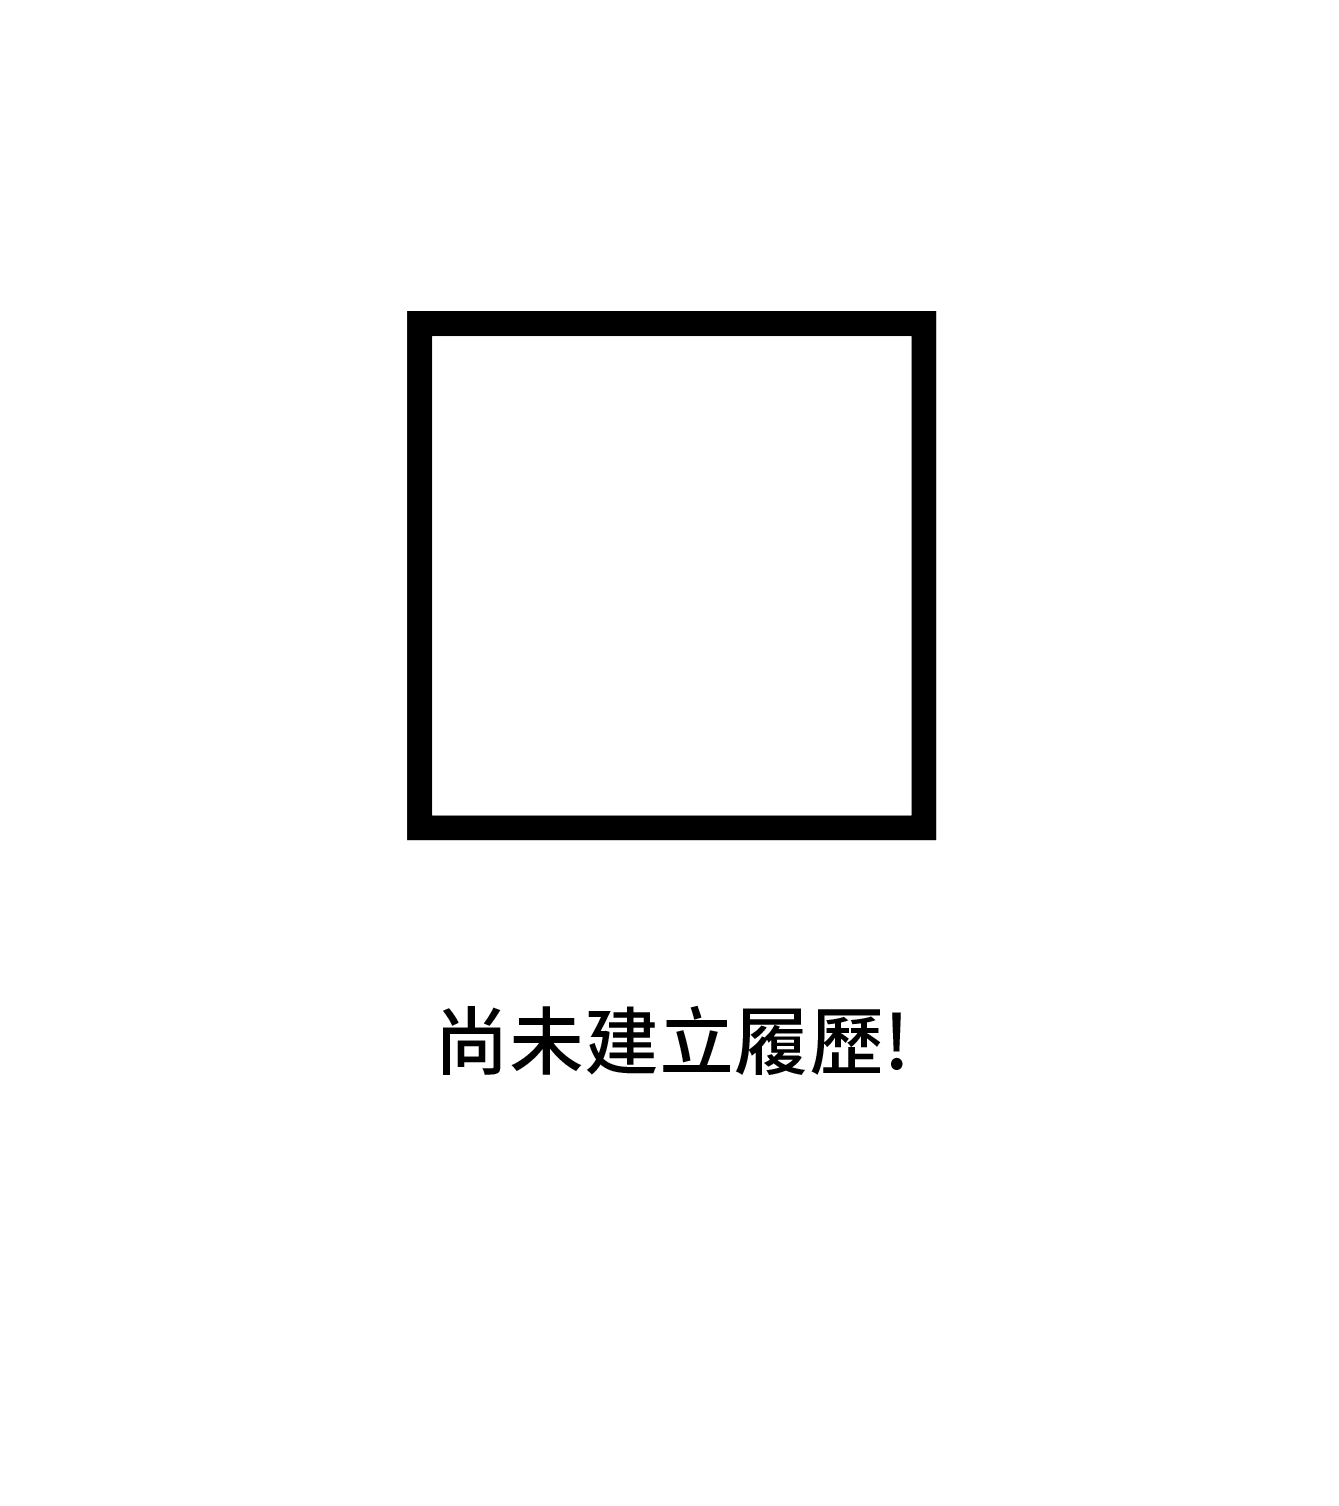
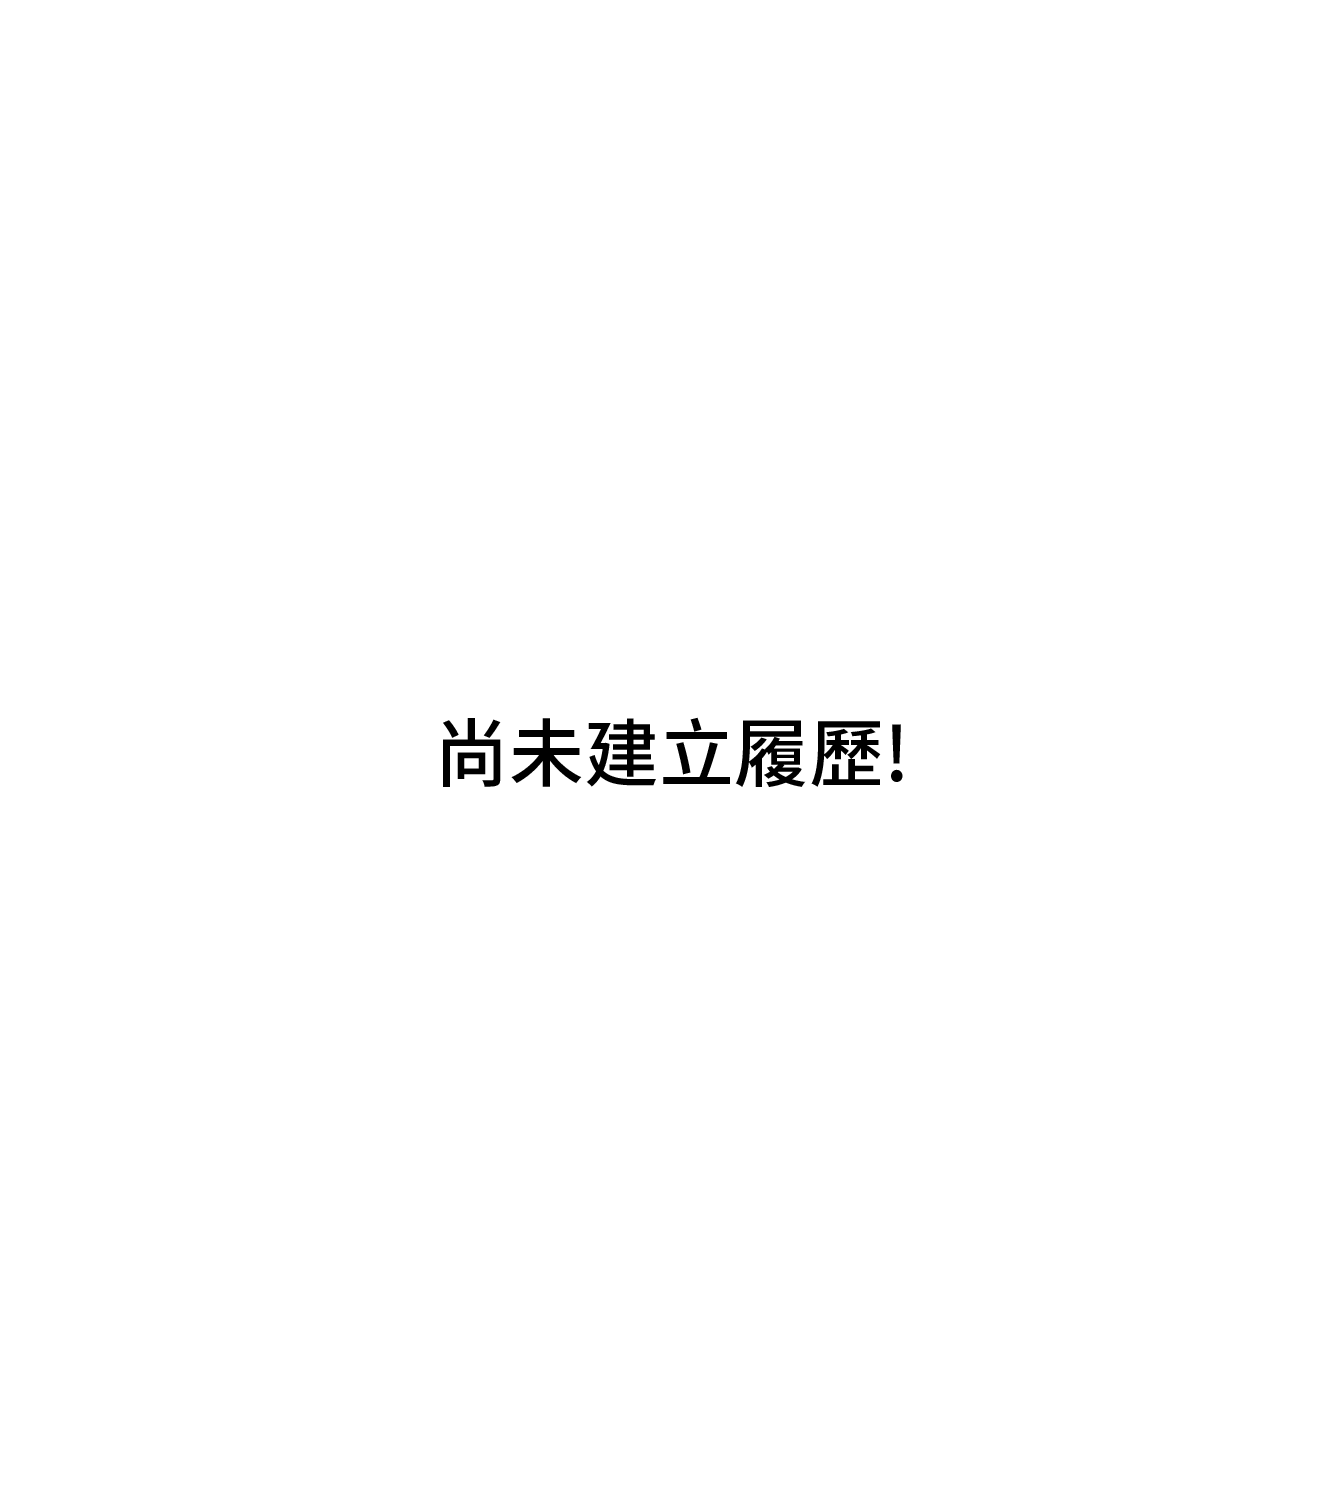
add loading animation in resume page

Changed region(s): [[0.3062, 0.1873, 0.7043, 0.5618], [0.3062, 0.6554, 0.6736, 0.7178]]

diff --git a/src/utilis/Loading.tsx b/src/utilis/Loading.tsx
@@ -1,65 +1,37 @@
 import React from "react";
 import styled, { keyframes } from "styled-components";
+import LogoImg from "../images/caterportfolio_logo.png";
 
-import Fish from "../images/fish.png";
-
-const float = keyframes`{
-	0% {
-		transform: translatey(0px);
-	}
-	50% {
-		transform: translatey(40px);
-	}
-	100% {
-		transform: translatey(0px);
-	}
-}`;
-const swim = keyframes`{
-	0% {margin-left: -400px}
-	80% {margin-left: 100%;}
-	100% {margin-left: 100%;}
+const spin = keyframes`{
+	100% { -webkit-transform: rotate(360deg); transform:rotate(360deg); }
 }`;
 
 const Wrapper = styled.div`
-  position: fixed;
   display: flex;
-  top: 0;
   flex-direction: column;
+  justify-content: center;
+  align-items: center;
   z-index: 10;
-  width: 100vw;
-  height: 100vh;
-  background-color: #f6f6f6;
+  width: 100px;
+  height: 100px;
+  margin: 0 auto;
 `;
 
-const Logo = styled.img<{ delay: string }>`
-  position: absolute;
-  top: 45%;
+const Logo = styled.img`
   color: #333333;
   text-decoration: none;
-  width: 80px;
-  height: 45px;
+  width: 60px;
+  height: 60px;
   object-fit: contain;
-  margin: 0 0px 0 20px;
-  animation: ${float} 2s ease-in-out infinite, ${swim} 8s linear infinite;
-  animation-delay: ${(props) => props.delay};
-`;
-
-const LoadingP = styled.p`
-  position: absolute;
-  top: 45%;
-  color: #333333;
-  font-size: 40px;
-  animation: ${float} 2s ease-in-out infinite, ${swim} 8s linear infinite;
-  animation-delay: -2s;
+  margin: 20px;
+  animation: ${spin} 4s linear infinite;
+  opacity: 0.6;
 `;
 
 const Loading = () => {
   return (
     <Wrapper>
-      <Logo src={Fish} delay={"0s"}></Logo>
-      <Logo src={Fish} delay={"-0.4s"}></Logo>
-      <Logo src={Fish} delay={"-2.2s"}></Logo>
-      <Logo src={Fish} delay={"-3s"}></Logo>
+      <Logo src={LogoImg}></Logo>
     </Wrapper>
   );
 };

diff --git a/src/pages/Resume/Resume.tsx b/src/pages/Resume/Resume.tsx
@@ -18,6 +18,7 @@ import {
 } from "../../action";
 
 import firebase from "../../utilis/firebase";
+import Loading from "../../utilis/Loading";
 import Delete from "./Delete";
 import AddComArea from "./AddComArea";
 import SideBar from "../../utilis/SideBar";
@@ -39,6 +40,7 @@ export interface resumeComContent {
 }
 
 const Resume: React.FC = () => {
+  const [isLoading, setIsLoading] = useState<boolean>(true);
   const refPhoto = useRef<HTMLDivElement>(null);
   const resumeID = useParams().id;
   const resumeData = useSelector((state: RootState) => state.ResumeReducer);
@@ -87,6 +89,7 @@ const Resume: React.FC = () => {
 
   useEffect(() => {
     const loadResume = async () => {
+      setIsLoading(true);
       const resumeData = await firebase.readData("resumes", `${resumeID}`);
       if (resumeData) {
         dispatch(resumeLoading(resumeData));
@@ -105,6 +108,7 @@ const Resume: React.FC = () => {
           })
         );
       }
+      setIsLoading(false);
     };
     loadResume();
     return () => {
@@ -146,6 +150,7 @@ const Resume: React.FC = () => {
                     {...provided.droppableProps}
                     ref={provided.innerRef}
                   >
+                    {isLoading ? <Loading /> : null}
                     {resumeData.content?.map(
                       (content: resumeComContent, index: number) => {
                         const TempCom =

diff --git a/src/App.tsx b/src/App.tsx
@@ -1,9 +1,8 @@
-import React, { useState, useEffect } from "react";
+import React, { useState } from "react";
 import { Outlet, useLocation } from "react-router-dom";
 import { createGlobalStyle } from "styled-components";
 import Header from "./components/Header";
 import Alert from "./components/Alert";
-import Loading from "./utilis/Loading";
 
 import PingFangTCRegular from "./fonts/PingFang-TC-Regular-2.otf";
 import PingFangTCThin from "./fonts/PingFang-TC-Thin-2.otf";
@@ -72,18 +71,11 @@ const GlobalStyle = createGlobalStyle`
 const App: React.FC = () => {
   const [isLoading, setIsLoading] = useState<boolean>(false);
   const location = useLocation();
-  // useEffect(() => {
-  //   setIsLoading(true);
-  //   setTimeout(() => {
-  //     setIsLoading(false);
-  //   }, 2500);
-  // }, [location]);
 
   return (
     <>
       <GlobalStyle />
 
-      {/* {isLoading ? <Loading /> : <Header />} */}
       <Header />
       <Alert />
       <Outlet />

diff --git a/public/index.html b/public/index.html
@@ -2,18 +2,14 @@
 <html lang="en">
   <head>
     <meta charset="utf-8" />
-    <link
-      rel="icon"
-      type="image/x-icon"
-      href="../src/images/caterportfolio_logo.png"
-    />
+    <link rel="icon" href="%PUBLIC_URL%/favicon.ico" />
     <meta name="viewport" content="width=device-width, initial-scale=1" />
     <meta name="theme-color" content="#000000" />
     <meta
       name="description"
       content="Web site created using create-react-app"
     />
-    <link rel="apple-touch-icon" href="../src/images/caterportfolio_logo.png" />
+    <link rel="apple-touch-icon" href="%PUBLIC_URL%/favicon.ico" />
     <!--
       manifest.json provides metadata used when your web app is installed on a
       user's mobile device or desktop. See https://developers.google.com/web/fundamentals/web-app-manifest/
